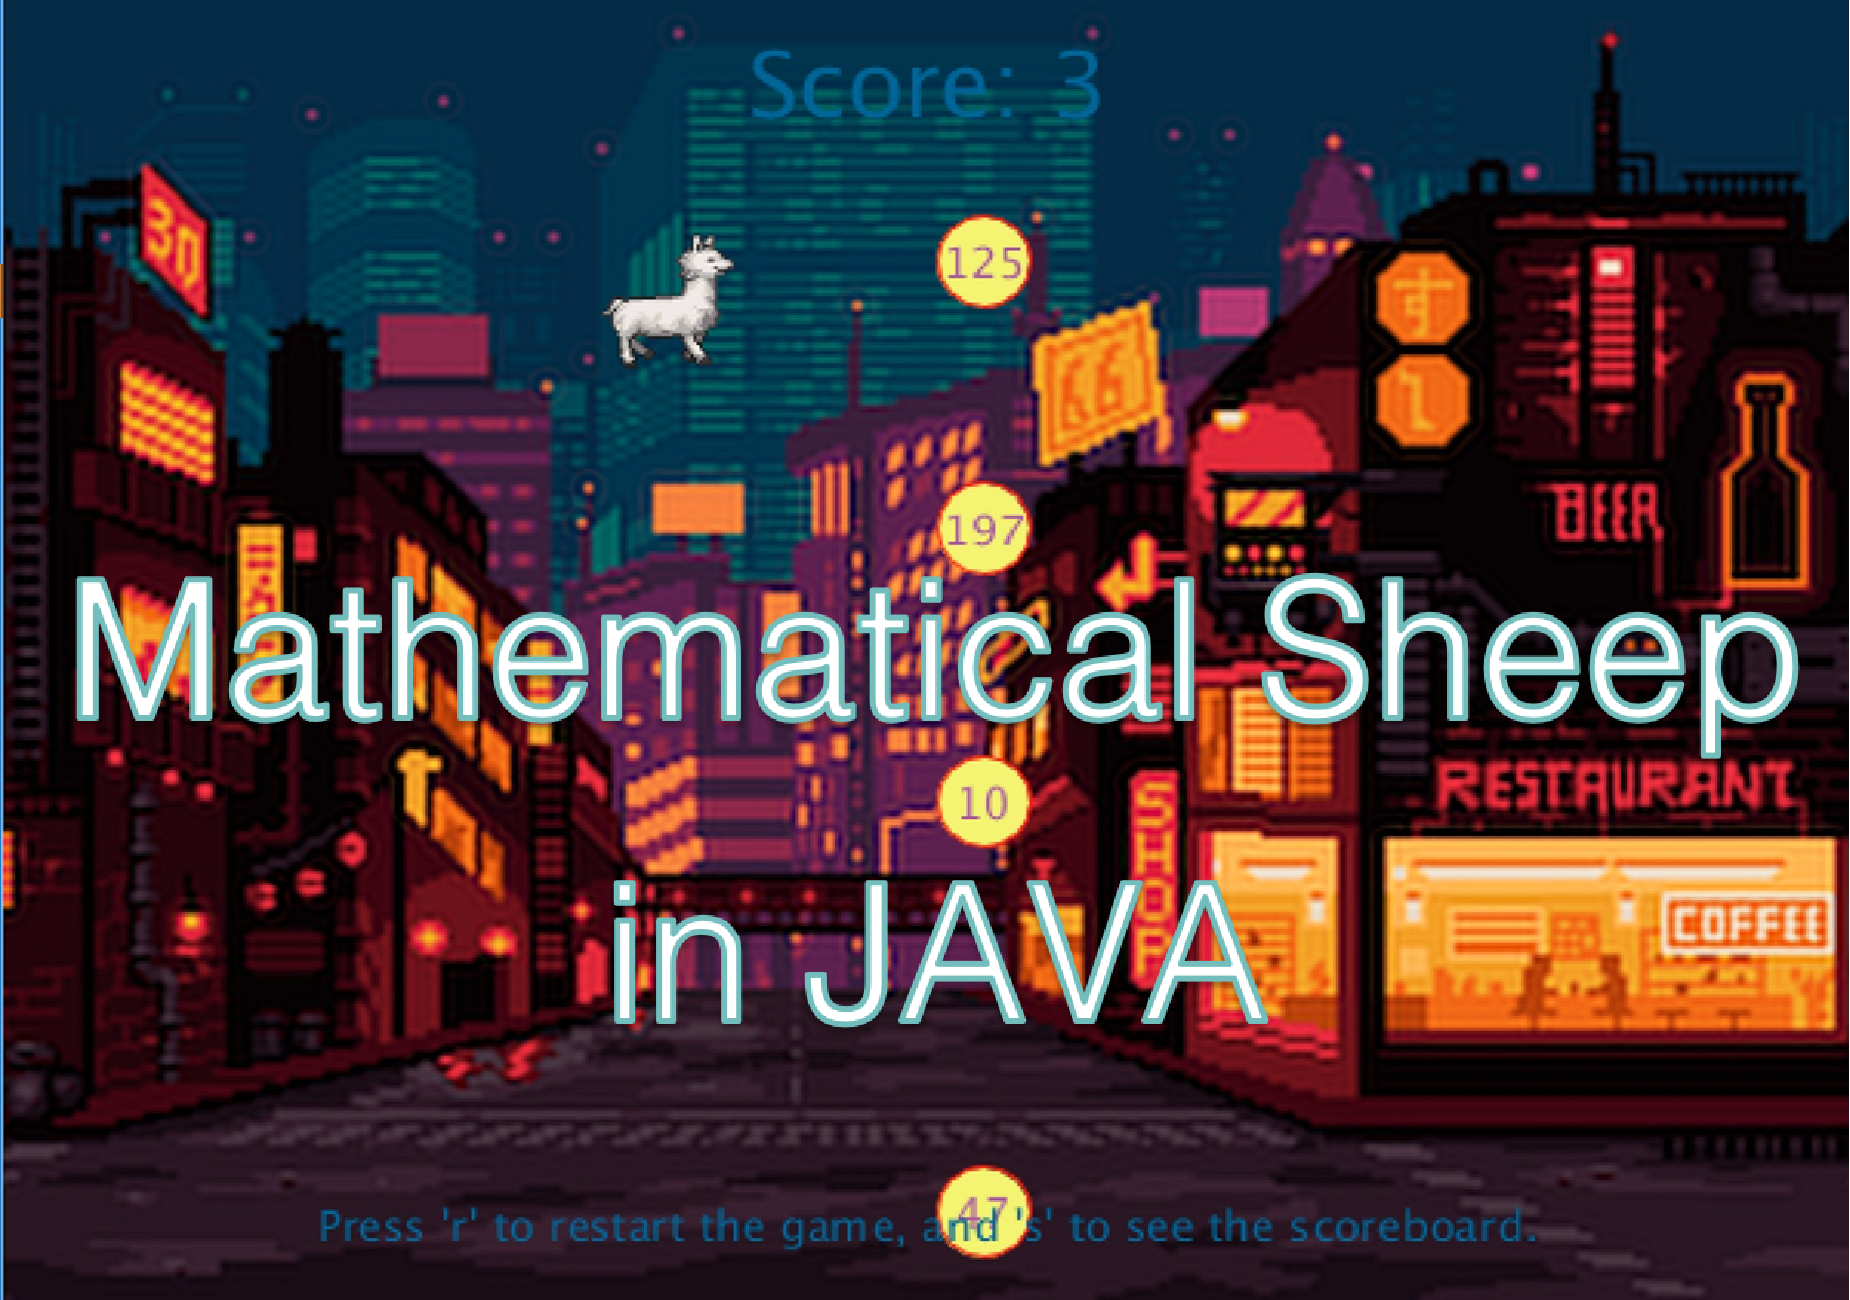
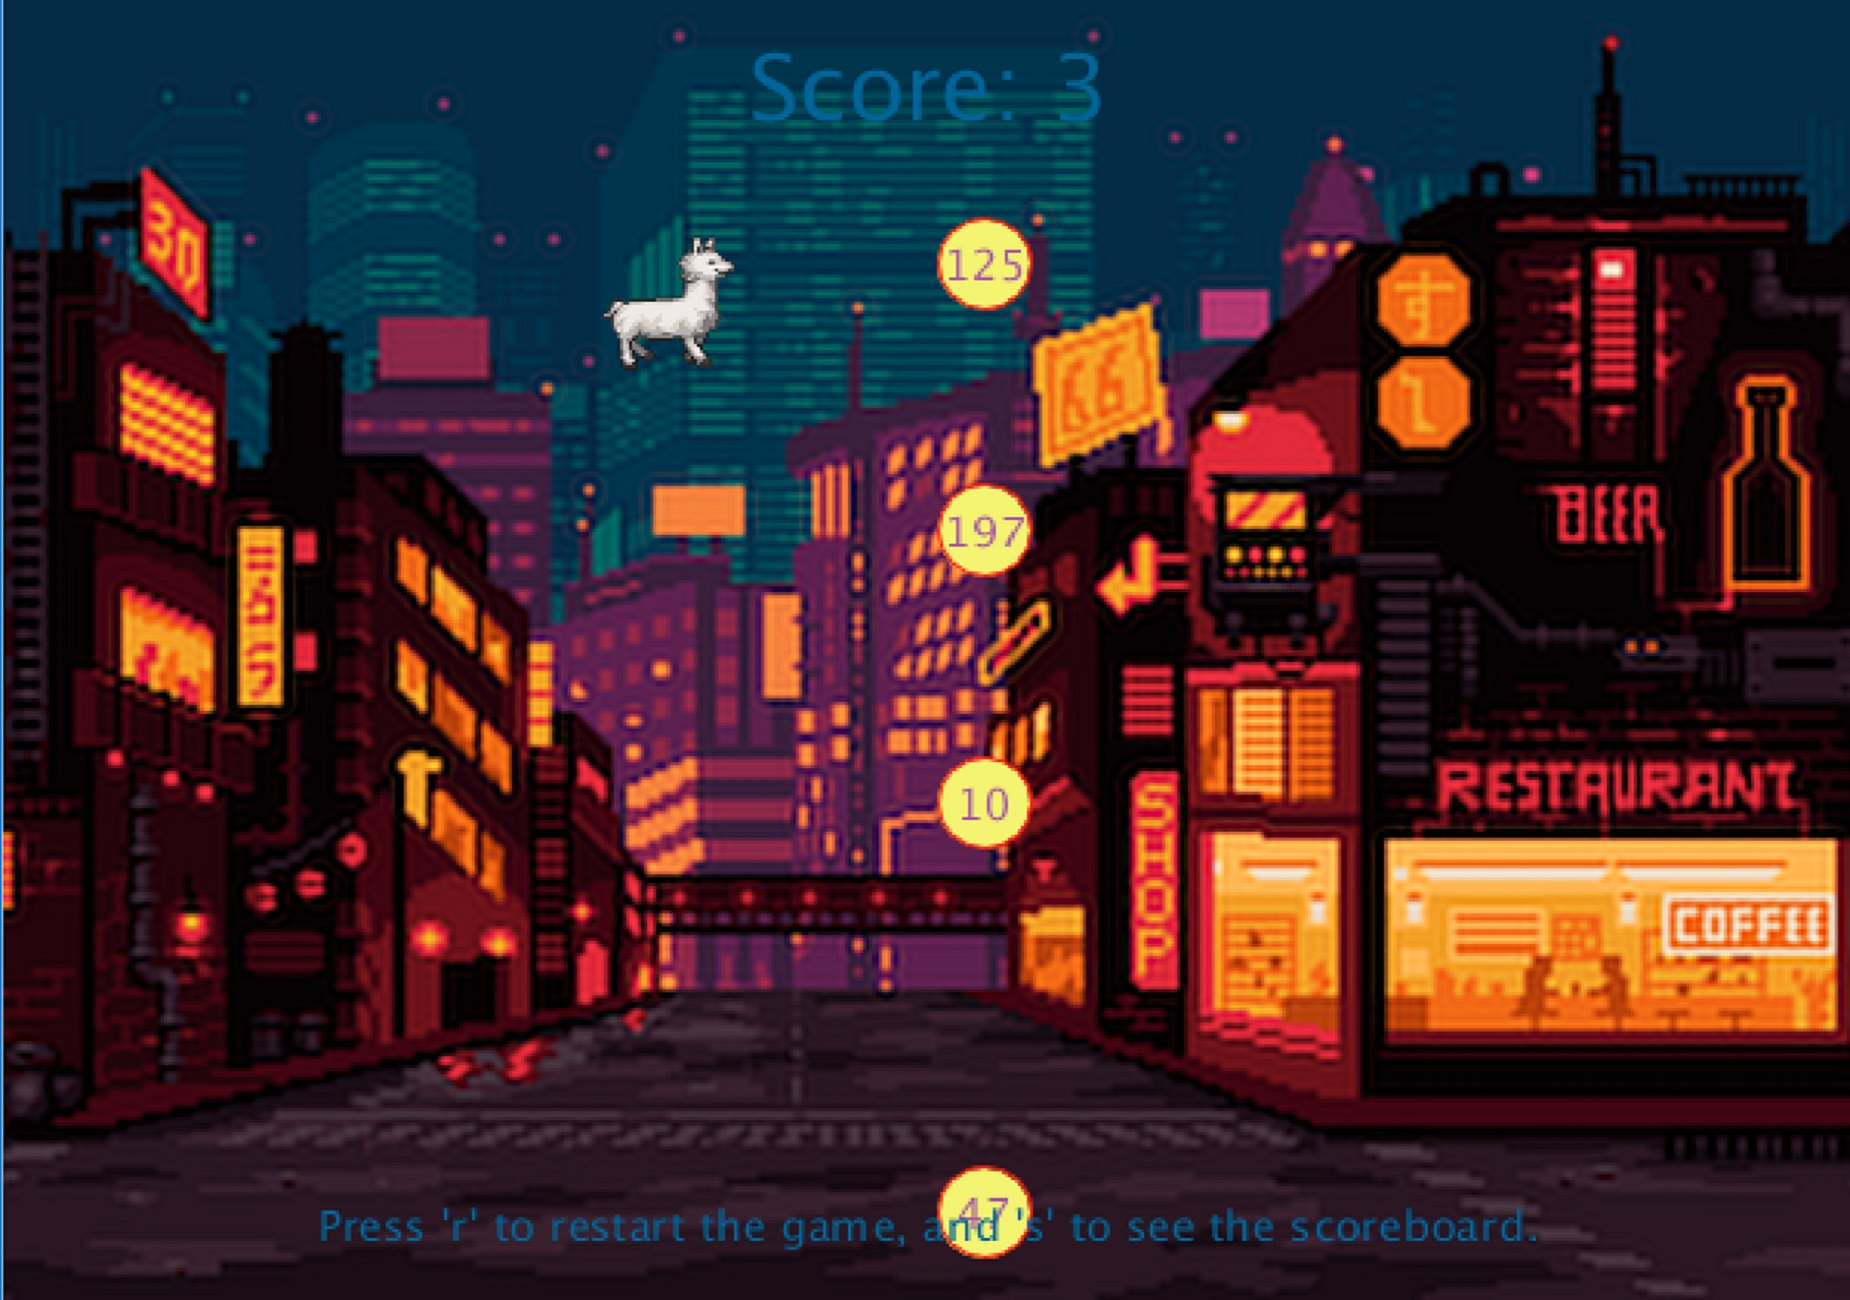
Change game caption and header font size

diff --git a/css/creative.min.css b/css/creative.min.css
@@ -12,7 +12,7 @@
 .txt-platformLI{font-family: Platform-LightItalic,Platform, Arial, sans-serif;font-size: 2rem}
 .txt-helveticaNeueUL{font-family:"Helvetica Neue UltraLight", "Helvetica Light", Arial, sans-serif;font-size: 1.5rem;}
 .txt-helveticaNeueL{font-family:"Helvetica Neue Light", "Helvetica Neue", Arial, sans-serif;font-size: 1.5rem;}
-body,html{width:100%;height:100%}body{font-family:'Helvetica Neue',Helvetica,Arial,sans-serif; line-height: 1.1}hr{max-width:50px;border-width:3px;border-color:#048779}hr.light{border-color:#fff}a{color:#FFF0B2;-webkit-transition:all .2s;-moz-transition:all .2s;transition:all .2s}a:hover{color:#f05f40}h1,h2,h3,h4,h5,h6{font-family:'Helvetica Neue','Helvetica Light',Arial,sans-serif}.bg-primary{background-color:#FFF0B2!important}.bg-dark{background-color:#212529!important}.text-faded{color:rgba(255,255,255,.7)}section{padding:10rem 0}.section-heading{margin-top:0}::-moz-selection{color:#fff;background:#212529;text-shadow:none}::selection{color:#fff;background:#212529;text-shadow:none}img::selection{color:#fff;background:0 0}img::-moz-selection{color:#fff;background:0 0}#mainNav{border-bottom:1px solid rgba(33,37,41,.1);background-color:#fff;font-family:'Helvetica Neue', 'Helvetica Light',Arial,sans-serif;-webkit-transition:all .2s;-moz-transition:all .2s;transition:all .2s}#mainNav .navbar-brand{font-weight:700;text-transform:uppercase;color:#048779;font-family:'Helvetica Light','Helvetica Neue',Arial,sans-serif}#mainNav .navbar-brand:focus,#mainNav .navbar-brand:hover{color:#033848}#mainNav .navbar-nav>li.nav-item>a.nav-link,#mainNav .navbar-nav>li.nav-item>a.nav-link:focus{font-size:.9rem;font-weight:700;text-transform:uppercase;color:#212529}#mainNav .navbar-nav>li.nav-item>a.nav-link:focus:hover,#mainNav .navbar-nav>li.nav-item>a.nav-link:hover{color:#048779}#mainNav .navbar-nav>li.nav-item>a.nav-link.active,#mainNav .navbar-nav>li.nav-item>a.nav-link:focus.active{color:#048779!important;background-color:transparent}#mainNav .navbar-nav>li.nav-item>a.nav-link.active:hover,#mainNav .navbar-nav>li.nav-item>a.nav-link:focus.active:hover{background-color:transparent}@media (min-width:992px){#mainNav{border-color:transparent;background-color:transparent}#mainNav .navbar-brand{color:#FFF0B2}#mainNav .navbar-brand:focus,#mainNav .navbar-brand:hover{color:#C2F2FE}#mainNav .navbar-nav>li.nav-item>a.nav-link{padding:.5rem 1rem}#mainNav .navbar-nav>li.nav-item>a.nav-link,#mainNav .navbar-nav>li.nav-item>a.nav-link:focus{color:rgba(255,255,255,.7)}#mainNav .navbar-nav>li.nav-item>a.nav-link:focus:hover,#mainNav .navbar-nav>li.nav-item>a.nav-link:hover{color:#fff}#mainNav.navbar-shrink{border-bottom:1px solid rgba(33,37,41,.1);background-color:#fff}#mainNav.navbar-shrink .navbar-brand{color:#048779}#mainNav.navbar-shrink .navbar-brand:focus,#mainNav.navbar-shrink .navbar-brand:hover{color:#C2F2FE}#mainNav.navbar-shrink .navbar-nav>li.nav-item>a.nav-link,#mainNav.navbar-shrink .navbar-nav>li.nav-item>a.nav-link:focus{color:#212529}#mainNav.navbar-shrink .navbar-nav>li.nav-item>a.nav-link:focus:hover,#mainNav.navbar-shrink .navbar-nav>li.nav-item>a.nav-link:hover{color:#048779}}header.masthead{padding-top:10rem;padding-bottom:calc(10rem - 56px);background-color:rgb(4,52,67);background-position:center center;-webkit-background-size:cover;-moz-background-size:cover;-o-background-size:cover;background-size:cover}header.masthead hr{margin-top:30px;margin-bottom:30px}header.masthead h1{font-size:2rem}header.masthead p{font-weight:300}@media (min-width:768px){header.masthead p{font-size:1.15rem}}@media (min-width:992px){header.masthead{height:100vh;min-height:650px;padding-top:0;padding-bottom:0}header.masthead h1{font-size:3rem}}@media (min-width:1200px){header.masthead h1{font-size:4rem}}.service-box{max-width:400px}.portfolio-box{position:relative;display:block;max-width:650px;margin:0 auto}.portfolio-box .portfolio-box-caption{position:absolute;bottom:0;display:block;width:100%;height:100%;text-align:center;opacity:0;color:#fff;background:rgba(99,171,163,.8);-webkit-transition:all .2s;-moz-transition:all .2s;transition:all .2s}.portfolio-box .portfolio-box-caption .portfolio-box-caption-content{position:absolute;top:50%;width:100%;transform:translateY(-50%);text-align:center}.portfolio-box .portfolio-box-caption .portfolio-box-caption-content .project-category,.portfolio-box .portfolio-box-caption .portfolio-box-caption-content .project-name{padding:0 15px;font-family:'Open Sans','Helvetica Neue',Arial,sans-serif}.portfolio-box .portfolio-box-caption .portfolio-box-caption-content .project-category{font-size:14px;font-weight:600;text-transform:uppercase}.portfolio-box .portfolio-box-caption .portfolio-box-caption-content .project-name{font-size:18px}.portfolio-box:hover .portfolio-box-caption{opacity:1}.portfolio-box:focus{outline:0}@media (min-width:768px){.portfolio-box .portfolio-box-caption .portfolio-box-caption-content .project-category{font-size:16px}.portfolio-box .portfolio-box-caption .portfolio-box-caption-content .project-name{font-size:22px}}.text-primary{color:#f05f40!important}.btn{font-weight:700;text-transform:uppercase;border:none;border-radius:300px;font-family:'Open Sans','Helvetica Neue',Arial,sans-serif}.btn-xl{padding:1rem 2rem}.btn-primary{background-color:#f05f40;border-color:#f05f40}.btn-primary:active,.btn-primary:focus,.btn-primary:hover{color:#fff;background-color:#ee4b28!important}.btn-primary:active,.btn-primary:focus{box-shadow:0 0 0 .2rem rgba(240,95,64,.5)!important}
+body,html{width:100%;height:100%}body{font-family:'Helvetica Neue',Helvetica,Arial,sans-serif; line-height: 1.1}hr{max-width:50px;border-width:3px;border-color:#048779}hr.light{border-color:#fff}a{color:#FFF0B2;-webkit-transition:all .2s;-moz-transition:all .2s;transition:all .2s}a:hover{color:#f05f40}h1,h2,h3,h4,h5,h6{font-family:'Helvetica Neue','Helvetica Light',Arial,sans-serif}.bg-primary{background-color:#FFF0B2!important; padding:15rem 0;}.bg-dark{background-color:#212529!important}.text-faded{color:rgba(255,255,255,.7)}section{padding:10rem 0}.section-heading{margin-top:0}::-moz-selection{color:#fff;background:#212529;text-shadow:none}::selection{color:#fff;background:#212529;text-shadow:none}img::selection{color:#fff;background:0 0}img::-moz-selection{color:#fff;background:0 0}#mainNav{border-bottom:1px solid rgba(33,37,41,.1);background-color:#fff;font-family:'Helvetica Neue', 'Helvetica Light',Arial,sans-serif;-webkit-transition:all .2s;-moz-transition:all .2s;transition:all .2s}#mainNav .navbar-brand{font-weight:700;font-size:.9rem;text-transform:uppercase;color:#048779;font-family:'Helvetica Neue UltraLight','Helvetica Light',Arial,sans-serif}#mainNav .navbar-brand:focus,#mainNav .navbar-brand:hover{color:#033848}#mainNav .navbar-nav>li.nav-item>a.nav-link,#mainNav .navbar-nav>li.nav-item>a.nav-link:focus{font-size:.9rem;font-weight:700;text-transform:uppercase;color:#212529}#mainNav .navbar-nav>li.nav-item>a.nav-link:focus:hover,#mainNav .navbar-nav>li.nav-item>a.nav-link:hover{color:#048779}#mainNav .navbar-nav>li.nav-item>a.nav-link.active,#mainNav .navbar-nav>li.nav-item>a.nav-link:focus.active{color:#048779!important;background-color:transparent}#mainNav .navbar-nav>li.nav-item>a.nav-link.active:hover,#mainNav .navbar-nav>li.nav-item>a.nav-link:focus.active:hover{background-color:transparent}@media (min-width:992px){#mainNav{border-color:transparent;background-color:transparent}#mainNav .navbar-brand{color:#FFF0B2}#mainNav .navbar-brand:focus,#mainNav .navbar-brand:hover{color:#C2F2FE}#mainNav .navbar-nav>li.nav-item>a.nav-link{padding:.5rem 1rem}#mainNav .navbar-nav>li.nav-item>a.nav-link,#mainNav .navbar-nav>li.nav-item>a.nav-link:focus{color:rgba(255,255,255,.7)}#mainNav .navbar-nav>li.nav-item>a.nav-link:focus:hover,#mainNav .navbar-nav>li.nav-item>a.nav-link:hover{color:#fff}#mainNav.navbar-shrink{border-bottom:1px solid rgba(33,37,41,.1);background-color:#fff}#mainNav.navbar-shrink .navbar-brand{color:#048779}#mainNav.navbar-shrink .navbar-brand:focus,#mainNav.navbar-shrink .navbar-brand:hover{color:#C2F2FE}#mainNav.navbar-shrink .navbar-nav>li.nav-item>a.nav-link,#mainNav.navbar-shrink .navbar-nav>li.nav-item>a.nav-link:focus{color:#212529}#mainNav.navbar-shrink .navbar-nav>li.nav-item>a.nav-link:focus:hover,#mainNav.navbar-shrink .navbar-nav>li.nav-item>a.nav-link:hover{color:#048779}}header.masthead{padding-top:10rem;padding-bottom:calc(10rem - 56px);background-color:rgb(4,52,67);background-position:center center;-webkit-background-size:cover;-moz-background-size:cover;-o-background-size:cover;background-size:cover}header.masthead hr{margin-top:30px;margin-bottom:30px}header.masthead h1{font-size:2rem}header.masthead p{font-weight:300}@media (min-width:768px){header.masthead p{font-size:1.15rem}}@media (min-width:992px){header.masthead{height:100vh;min-height:650px;padding-top:0;padding-bottom:0}header.masthead h1{font-size:3rem}}@media (min-width:1200px){header.masthead h1{font-size:4rem}}.service-box{max-width:400px}.portfolio-box{position:relative;display:block;max-width:650px;margin:0 auto}.portfolio-box .portfolio-box-caption{position:absolute;bottom:0;display:block;width:100%;height:100%;text-align:center;opacity:0;color:#fff;background:rgba(99,171,163,.8);-webkit-transition:all .2s;-moz-transition:all .2s;transition:all .2s}.portfolio-box .portfolio-box-caption .portfolio-box-caption-content{position:absolute;top:50%;width:100%;transform:translateY(-50%);text-align:center}.portfolio-box .portfolio-box-caption .portfolio-box-caption-content .project-category,.portfolio-box .portfolio-box-caption .portfolio-box-caption-content .project-name{padding:0 15px;font-family:'Helvetica Neue', 'Helvetica Light',Arial,sans-serif}.portfolio-box .portfolio-box-caption .portfolio-box-caption-content .project-category{font-size:14px;font-weight:600;text-transform:uppercase}.portfolio-box .portfolio-box-caption .portfolio-box-caption-content .project-name{font-size:18px}.portfolio-box:hover .portfolio-box-caption{opacity:1}.portfolio-box:focus{outline:0}@media (min-width:768px){.portfolio-box .portfolio-box-caption .portfolio-box-caption-content .project-category{font-size:16px}.portfolio-box .portfolio-box-caption .portfolio-box-caption-content .project-name{font-size:22px}}.text-primary{color:#f05f40!important}.btn{font-weight:700;text-transform:uppercase;border:none;border-radius:300px;font-family:'Open Sans','Helvetica Neue',Arial,sans-serif}.btn-xl{padding:1rem 2rem}.btn-primary{background-color:#f05f40;border-color:#f05f40}.btn-primary:active,.btn-primary:focus,.btn-primary:hover{color:#fff;background-color:#ee4b28!important}.btn-primary:active,.btn-primary:focus{box-shadow:0 0 0 .2rem rgba(240,95,64,.5)!important}
 
 .txt-yellow{color:rgb(254, 243, 153)}
 .txt-darkgreen{color:rgb(3, 52, 67)}
@@ -23,3 +23,4 @@ body,html{width:100%;height:100%}body{font-family:'Helvetica Neue',Helvetica,Ari
 .background-sky{background-color:rgba(197,245,255,.4)}
 .background-darkgreen{background-color: rgb(3, 52, 67)}
 .projectbox{background-color: #71dd8a; color: #0b2e13; font-size: 3rem; font-family: 'Helvetica Neue', 'Helvetica Light', Arial, sans-serif}
+.project-caption{position: absolute; top: 50%;width:100%;transform:translateY(-50%);text-align:center; color:white; font-size: 22px}

diff --git a/index.html b/index.html
@@ -184,9 +184,9 @@
         <div class="col-lg-4 col-sm-6">
           <a class="portfolio-box" href="https://github.com/selenesng/MathmaticalSheep">
             <img class="img-fluid" src="img/MathematicalSheep.png" alt="">
+              <div class="project-caption">Mathematical Sheep<br />in Java</div>
             <div class="portfolio-box-caption">
               <img class="img-fluid" src="img/MathematicalSheep.gif" alt="">
-
             </div>
           </a>
         </div>
